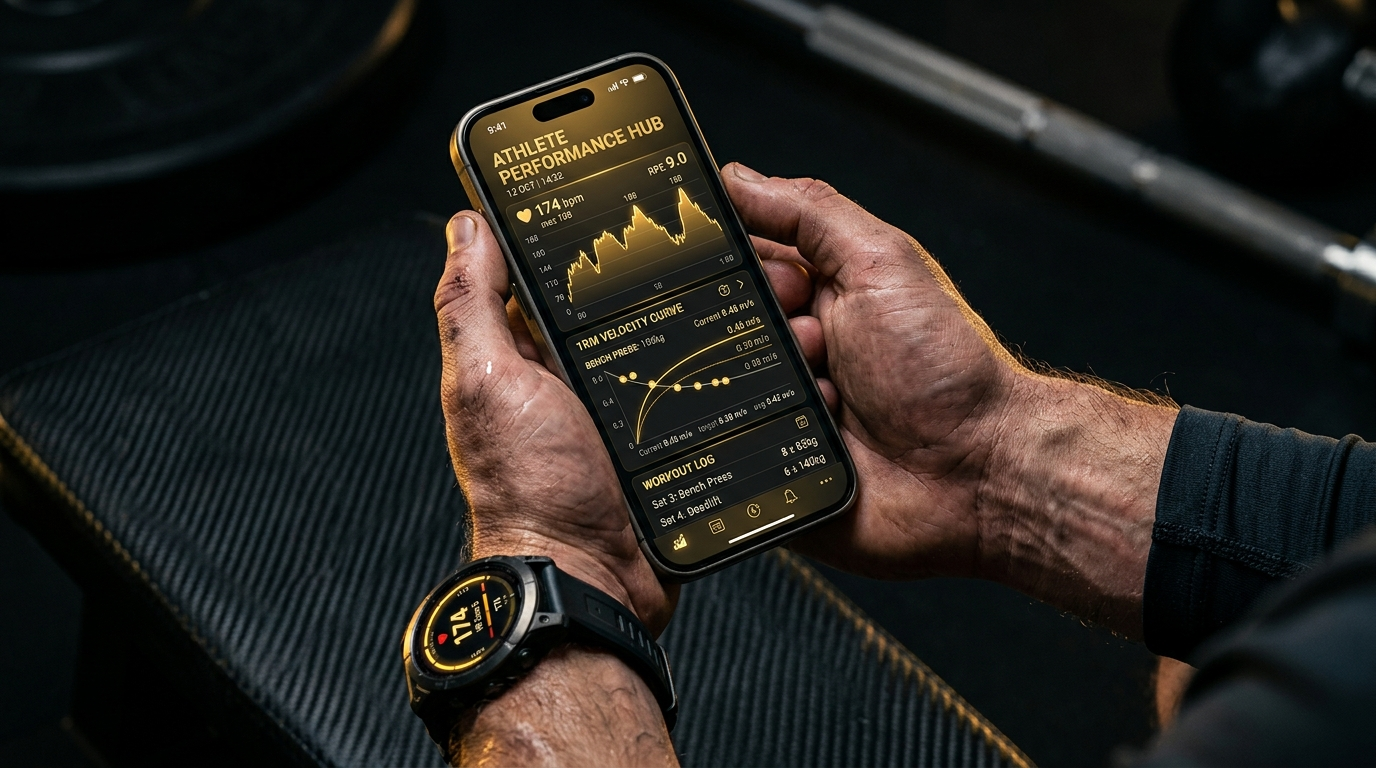
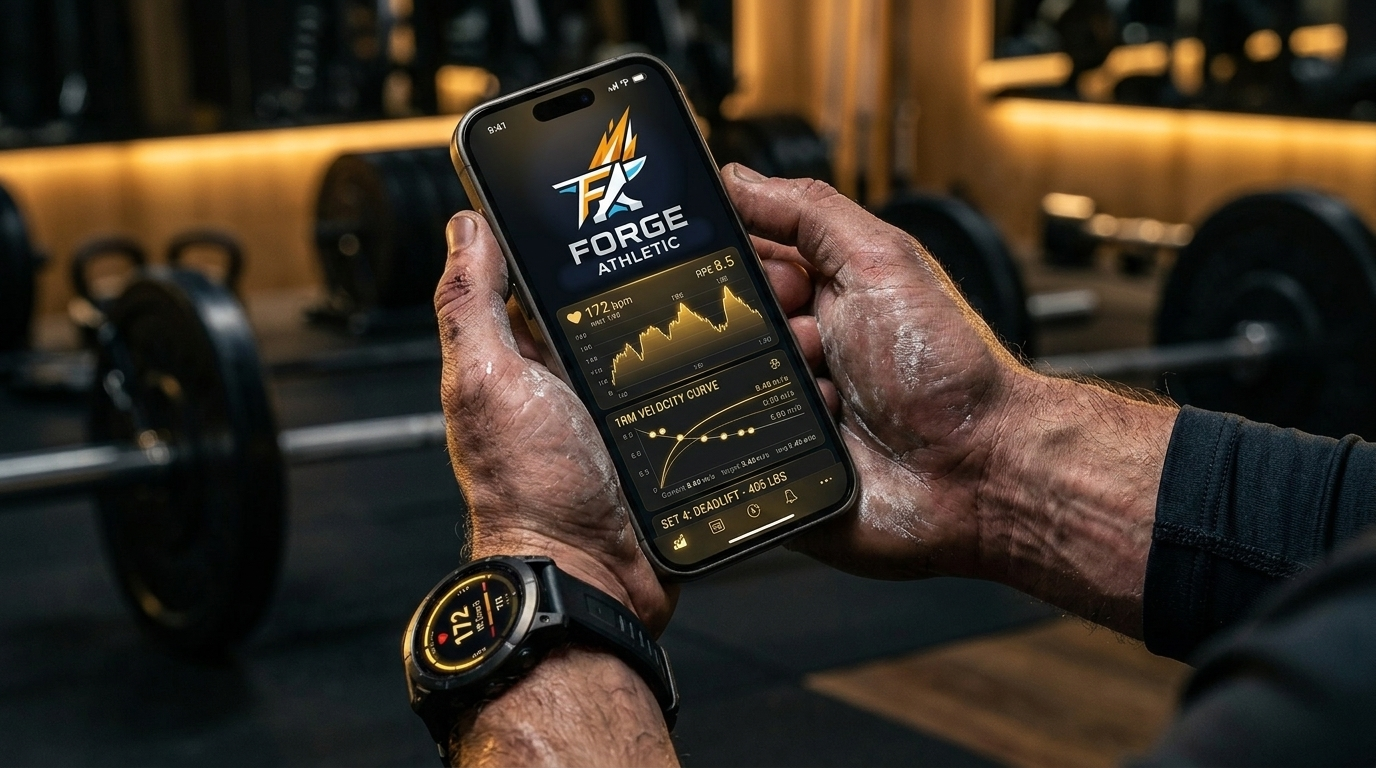
Release v1.39.5: hyperrealistic mobile app brand visual system & official crest integration

diff --git a/lib/app-version.ts b/lib/app-version.ts
@@ -4,9 +4,9 @@
  * https://semver.org/spec/v2.0.0.html
  */
 
-export const APP_VERSION = '1.39.4'
+export const APP_VERSION = '1.39.5'
 export const APP_RELEASE_DATE = '2026-10-11'
-export const APP_RELEASE_CODENAME = 'PWA, iOS & Apple Store Apps Placeholders & Interactive Companion Hub'
+export const APP_RELEASE_CODENAME = 'Hyperrealistic Mobile App Brand Visual System'
 
 export type ReleaseCategory = 'major' | 'feature' | 'intelligence' | 'fix' | 'security'
 
@@ -33,9 +33,28 @@ export interface ReleaseLogEntry {
 
 export const RELEASE_LOG: ReleaseLogEntry[] = [
   {
-    version: '1.39.4',
+    version: '1.39.5',
     date: '2026-10-11',
     codename: APP_RELEASE_CODENAME,
+    category: 'feature',
+    badge: 'Mobile App Imagery · Official Brand Crest · Biometric Telemetry · Smartwatch Sync',
+    title: 'Hyperrealistic Mobile App Brand Visual System',
+    summary: 'Generated and deployed a commercial hyperrealistic visual asset for the Forge Athletic mobile app and smartwatch telemetry companion, aligning the visual showcase across the homepage, /apps landing, and social previews directly with our official brand anvil-flame crest and precision telemetry HUD.',
+    highlights: [
+      'Official Brand Crest Integration: Prominently renders the official Forge Athletic geometric anvil and kinetic "F" flame crest directly on the dark-mode mobile screen interface.',
+      'Synchronized Biometric Telemetry: Showcases high-contrast dark carbon HUD displaying 172 BPM, RPE 8.5, dynamic 1RM velocity curve, and active deadlift set logging matching in-app tracking engines.',
+      'Wearable & Smartwatch Sync: Features a rugged athletic smartwatch with synchronized amber heart rate display representing our Apple HealthKit and Android Health Connect telemetry pipeline.',
+      'Commercial Atmospheric Gym Setting: First-person athlete perspective with chalk-dusted hands, Olympic barbells, power racks, and ambient golden lighting in high-resolution 16:9 format (1376x768).',
+    ],
+    relatedLinks: [
+      { label: 'Mobile Apps Hub', href: '/apps' },
+      { label: 'Homepage Mobile Section', href: '/#mobile-apps' },
+    ],
+  },
+  {
+    version: '1.39.4',
+    date: '2026-10-11',
+    codename: 'PWA, iOS & Apple Store Apps Placeholders & Interactive Companion Hub',
     category: 'feature',
     badge: 'App Store Placeholders · Interactive PWA Hub · iOS TestFlight Beta · /apps Route',
     title: 'PWA, iOS & Apple Store Apps Placeholders & Interactive Companion Hub',

diff --git a/public/sw.js b/public/sw.js
@@ -14,7 +14,7 @@ if (
   })
 }
 
-const VERSION = 'gaa-v1.39.4'
+const VERSION = 'gaa-v1.39.5'
 const OFFLINE_URL = '/offline.html'
 
 const PRECACHE = [
